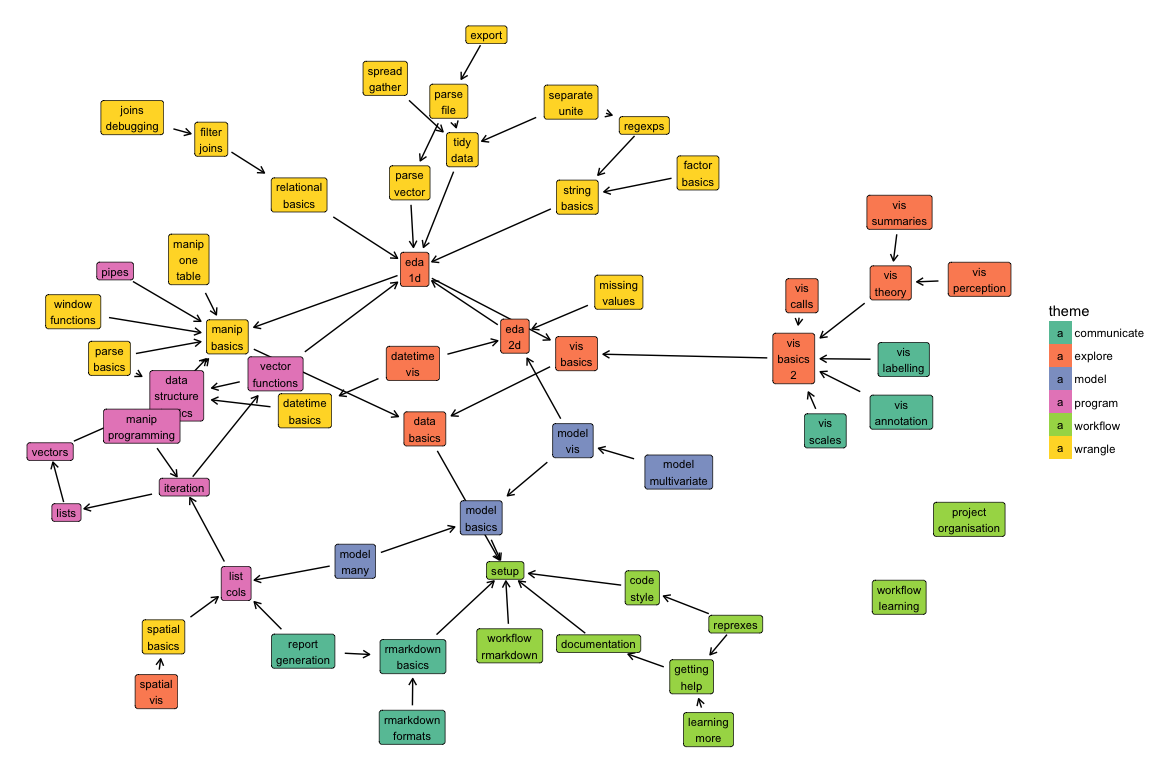
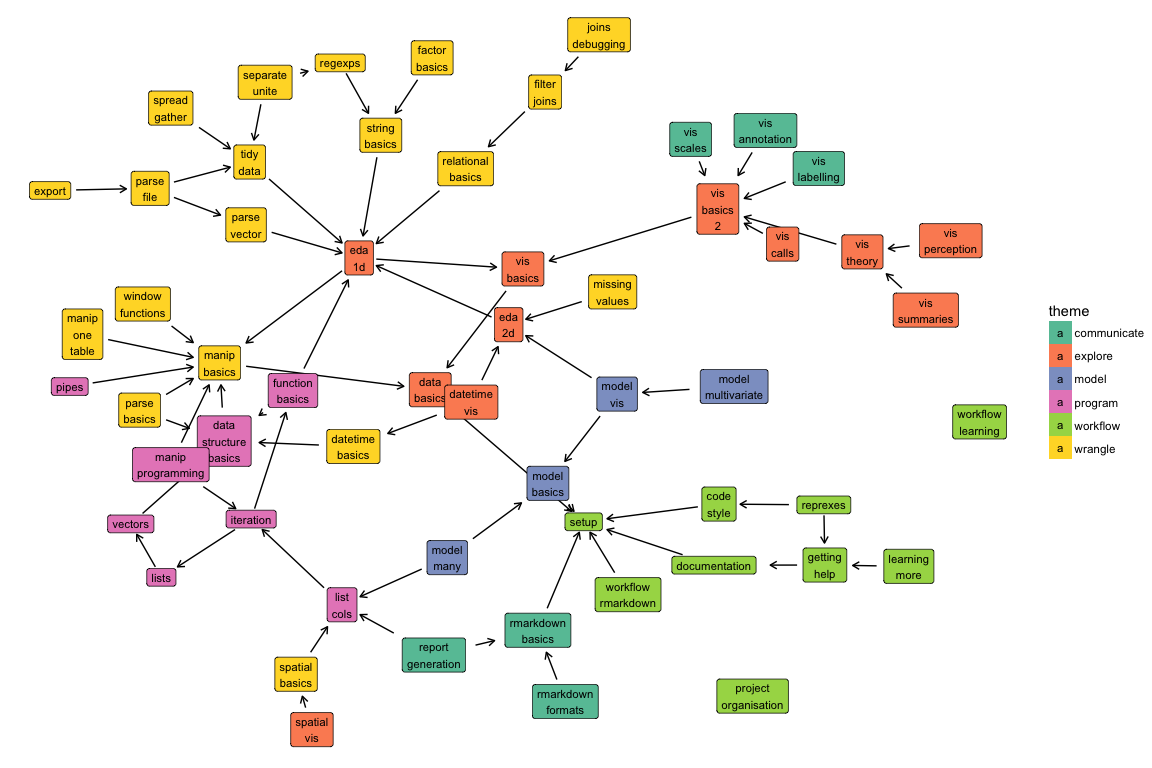
Week 3 tweaks

diff --git a/storyboard.md b/storyboard.md
@@ -340,9 +340,9 @@
 |r4ds-18.3                             |When not to use the pipe                          |                                                                                   |                                                                             |                                                                                     |                                                                                       |                                                                                 |                                                                             |                                                                                       |                                                                       |                                                                                     |                                                                                     |
 |r4ds-18.4                             |Other tools from magrittr                         |                                                                                   |                                                                             |                                                                                     |                                                                                       |                                                                                 |                                                                             |                                                                                       |                                                                       |                                                                                     |                                                                                     |
 |r4ds-19                               |Functions                                         |                                                                                   |                                                                             |                                                                                     |                                                                                       |                                                                                 |                                                                             |                                                                                       |                                                                       |                                                                                     |                                                                                     |
-|r4ds-19.1                             |Introduction                                      |                                                                                   |                                                                             |[vector-functions](https://dcl-2017-01.github.io/curriculum/vector-functions.html)   |                                                                                       |                                                                                 |                                                                             |                                                                                       |                                                                       |                                                                                     |                                                                                     |
-|r4ds-19.2                             |When should you write a function?                 |                                                                                   |                                                                             |[vector-functions](https://dcl-2017-01.github.io/curriculum/vector-functions.html)   |                                                                                       |                                                                                 |                                                                             |                                                                                       |                                                                       |                                                                                     |                                                                                     |
-|r4ds-19.3                             |Functions are for humans and computers            |                                                                                   |                                                                             |[vector-functions](https://dcl-2017-01.github.io/curriculum/vector-functions.html)   |                                                                                       |                                                                                 |                                                                             |                                                                                       |                                                                       |                                                                                     |                                                                                     |
+|r4ds-19.1                             |Introduction                                      |                                                                                   |                                                                             |[function-basics](https://dcl-2017-01.github.io/curriculum/function-basics.html)     |                                                                                       |                                                                                 |                                                                             |                                                                                       |                                                                       |                                                                                     |                                                                                     |
+|r4ds-19.2                             |When should you write a function?                 |                                                                                   |                                                                             |[function-basics](https://dcl-2017-01.github.io/curriculum/function-basics.html)     |                                                                                       |                                                                                 |                                                                             |                                                                                       |                                                                       |                                                                                     |                                                                                     |
+|r4ds-19.3                             |Functions are for humans and computers            |                                                                                   |                                                                             |[function-basics](https://dcl-2017-01.github.io/curriculum/function-basics.html)     |                                                                                       |                                                                                 |                                                                             |                                                                                       |                                                                       |                                                                                     |                                                                                     |
 |r4ds-19.4                             |Conditional execution                             |                                                                                   |                                                                             |                                                                                     |                                                                                       |                                                                                 |                                                                             |                                                                                       |                                                                       |                                                                                     |                                                                                     |
 |r4ds-19.5                             |Function arguments                                |                                                                                   |                                                                             |                                                                                     |                                                                                       |                                                                                 |                                                                             |                                                                                       |                                                                       |                                                                                     |                                                                                     |
 |r4ds-19.6                             |Return values                                     |                                                                                   |                                                                             |                                                                                     |                                                                                       |                                                                                 |                                                                             |                                                                                       |                                                                       |                                                                                     |                                                                                     |

diff --git a/docs/function-basics.md b/docs/function-basics.md
@@ -1,0 +1,26 @@
+---
+title: Function basics
+---
+
+<!-- Generated automatically from function-basics.yml. Do not edit by hand -->
+
+# Function basics <small class='program'>[program]</small>
+<small>(Builds on: [Exploratory data analysis (1D)](eda-1d.md), [Data structure basics](data-structure-basics.md))</small>  
+<small>(Leads to: [Iteration](iteration.md))</small>
+
+Functions are powerful tool for reducing the amount of duplication in your
+code. Reducing duplicationg is a good principle because it means that
+each "fact" in your code is only stored in one place. When the requirements
+of your code change (as they invariably do), you only need to make the
+change in a single place, reducing the chances of inconsistencies within
+your code.
+
+## Readings
+
+  * [Introduction](http://r4ds.had.co.nz/functions.html#introduction-12) [r4ds-19.1]
+
+  * [When should you write a function?](http://r4ds.had.co.nz/functions.html#when-should-you-write-a-function) [r4ds-19.2]
+
+  * [Functions are for humans and computers](http://r4ds.had.co.nz/functions.html#functions-are-for-humans-and-computers) [r4ds-19.3]
+
+

diff --git a/docs/eda-1d.md b/docs/eda-1d.md
@@ -6,7 +6,7 @@ title: Exploratory data analysis (1D)
 
 # Exploratory data analysis (1D) <small class='explore'>[explore]</small>
 <small>(Builds on: [Visualisation basics (1)](vis-basics.md), [Manipulation basics](manip-basics.md))</small>  
-<small>(Leads to: [Exploratory data analysis (2D)](eda-2d.md), [Parsing vectors](parse-vector.md), [Essentials of relational data](relational-basics.md), [String basics](string-basics.md), [Tidy data](tidy-data.md), [Vector functions](vector-functions.md))</small>
+<small>(Leads to: [Exploratory data analysis (2D)](eda-2d.md), [Function basics](function-basics.md), [Parsing vectors](parse-vector.md), [Essentials of relational data](relational-basics.md), [String basics](string-basics.md), [Tidy data](tidy-data.md))</small>
 
 
 Exploratory data analysis is partly a set of techniques, but is mostly a mindset: you want to remain open to what the data is telling you.

diff --git a/docs/data-structure-basics.md b/docs/data-structure-basics.md
@@ -6,7 +6,7 @@ title: Data structure basics
 
 # Data structure basics <small class='program'>[program]</small>
 <small>(Builds on: [Manipulation basics](manip-basics.md))</small>  
-<small>(Leads to: [Date/time basics](datetime-basics.md), [Parsing basics](parse-basics.md), [Vector functions](vector-functions.md), [Atomic vectors](vectors.md))</small>
+<small>(Leads to: [Date/time basics](datetime-basics.md), [Function basics](function-basics.md), [Parsing basics](parse-basics.md), [Atomic vectors](vectors.md))</small>
 
 
 It's helpful to know a little bit about how data structures are organised in R. The simplest data structure in R is the vector, which can be broken up in to atomic vectors and augmented vectors. Vectors of related data are organised together in tibbles and data.frames.

diff --git a/docs/parse-basics.md b/docs/parse-basics.md
@@ -109,7 +109,7 @@ The most important arguments to `read_csv()` are:
 
 -   It's fairly common to encounter csv files that have a bunch of 💩 at the top. You can use `skip = n` to skip the first n lines, or `comment = "#"` to ignore all lines that start with `#`.
 
--   `read_csv()` excepts missing values to be suppled as `NA`. If your file uses a different convention, use `na = "."` to override the default.
+-   `read_csv()` expects missing values to be suppled as `NA`. If your file uses a different convention, use `na = "."` to override the default.
 
 You'll get to practice using these arguments in the exercises.
 

diff --git a/docs/iteration.md b/docs/iteration.md
@@ -5,7 +5,7 @@ title: Iteration
 <!-- Generated automatically from iteration.yml. Do not edit by hand -->
 
 # Iteration <small class='program'>[program]</small>
-<small>(Builds on: [Lists](lists.md), [Vector functions](vector-functions.md))</small>  
+<small>(Builds on: [Lists](lists.md), [Function basics](function-basics.md))</small>  
 <small>(Leads to: [List columns](list-cols.md), [Programming dplyr](manip-programming.md))</small>
 
 Functions allow you to eliminate one type of duplication. The tools

diff --git a/docs/upcoming.md b/docs/upcoming.md
@@ -152,7 +152,7 @@ title: Theme index
 <tr>
 <td></td>
   <td colspan="2"></td>
-  <td colspan="3"><a class="program" href="vector-functions.html">Vector functions</a></td>
+  <td colspan="3"><a class="program" href="function-basics.html">Function basics</a></td>
   <td colspan="3"></td>
 </tr>
 <tr>
